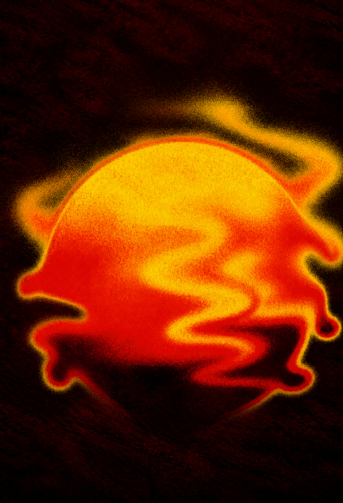
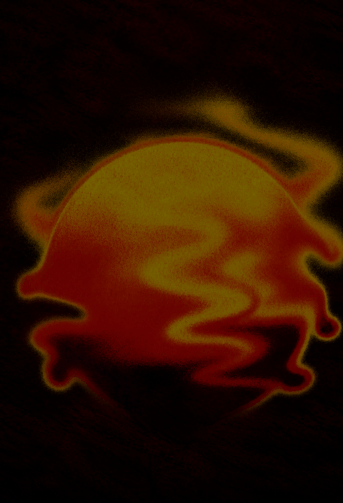
Keep Wallet fields readable over event artwork
Darken the legacy event-ticket background and pin high-contrast field colors instead of allowing Wallet to derive them from the artwork.

Constraint: Preserve the supplied background artwork and Apple's existing asset dimensions
Rejected: Add custom text backplates | Wallet controls the native field layout
Confidence: high
Scope-risk: narrow
Directive: Keep useAutomaticColors disabled while text overlays the event background
Tested: npm test, node --check, npm audit --omit=dev, vercel build --prod, blurred background visual inspection
Not-tested: Physical iPhone rendering

diff --git a/wallet-api/test/_wallet-core.test.js b/wallet-api/test/_wallet-core.test.js
@@ -74,7 +74,9 @@ test("pass contents retain order identity and disable sharing", () => {
   assert.equal(props.relevantDate, "2026-08-29T08:30:00.000Z");
   assert.deepEqual(props.preferredStyleSchemes, ["posterEventTicket", "eventTicket"]);
   assert.equal(props.eventLogoText, "잔열");
-  assert.equal(props.useAutomaticColors, true);
+  assert.equal(props.useAutomaticColors, false);
+  assert.equal(props.foregroundColor, "rgb(255, 255, 255)");
+  assert.equal(props.labelColor, "rgb(255, 201, 76)");
   assert.deepEqual(props.semantics, {
     eventType: "PKEventTypeLivePerformance",
     eventName: "잔열",

diff --git a/wallet-api/api/_wallet-core.js b/wallet-api/api/_wallet-core.js
@@ -126,10 +126,10 @@ export function buildPassProps(ticket, env) {
     eventLogoText: eventTitle,
     preferredStyleSchemes: ["posterEventTicket", "eventTicket"],
     backgroundColor: "rgb(18, 7, 10)",
-    foregroundColor: "rgb(255, 236, 224)",
-    labelColor: "rgb(230, 165, 60)",
+    foregroundColor: "rgb(255, 255, 255)",
+    labelColor: "rgb(255, 201, 76)",
     footerBackgroundColor: "rgb(18, 7, 10)",
-    useAutomaticColors: true,
+    useAutomaticColors: false,
     sharingProhibited: true,
     ...(relevantDate ? { relevantDate } : {}),
     ...(expirationDate ? { expirationDate } : {}),

diff --git a/wallet-api/README.md b/wallet-api/README.md
@@ -23,7 +23,9 @@ Pass Type ID 인증서 `6R3TW44947`의 만료일은 `2027-09-04`입니다.
 `posterEventTicket`을 먼저 요청하고 `eventTicket`으로 폴백합니다. 지원되는 포스터 레이아웃은
 `artwork.png`를 사용하며, QR 때문에 포스터 검증이 되지 않는 환경은 기존 이벤트 필드와
 `background.png`, `thumbnail.png`를 사용합니다. 썸네일용 포스터는 Wallet의 원형 마스크에서
-글자가 잘리지 않도록 배경 안쪽에 여백을 둡니다. 이미지의 1x/2x/3x 크기는 다음과 같습니다.
+글자가 잘리지 않도록 배경 안쪽에 여백을 둡니다. 필드가 올라가는 배경은 어둡게 보정하고
+자동 색상 선택을 끄므로, 본문과 라벨 색상이 밝은 이미지에 묻히지 않습니다. 이미지의
+1x/2x/3x 크기는 다음과 같습니다.
 
 - `artwork`: `358x448`, `716x896`, `1074x1344`
 - `background`: `343x503`, `686x1006`, `1029x1509`
